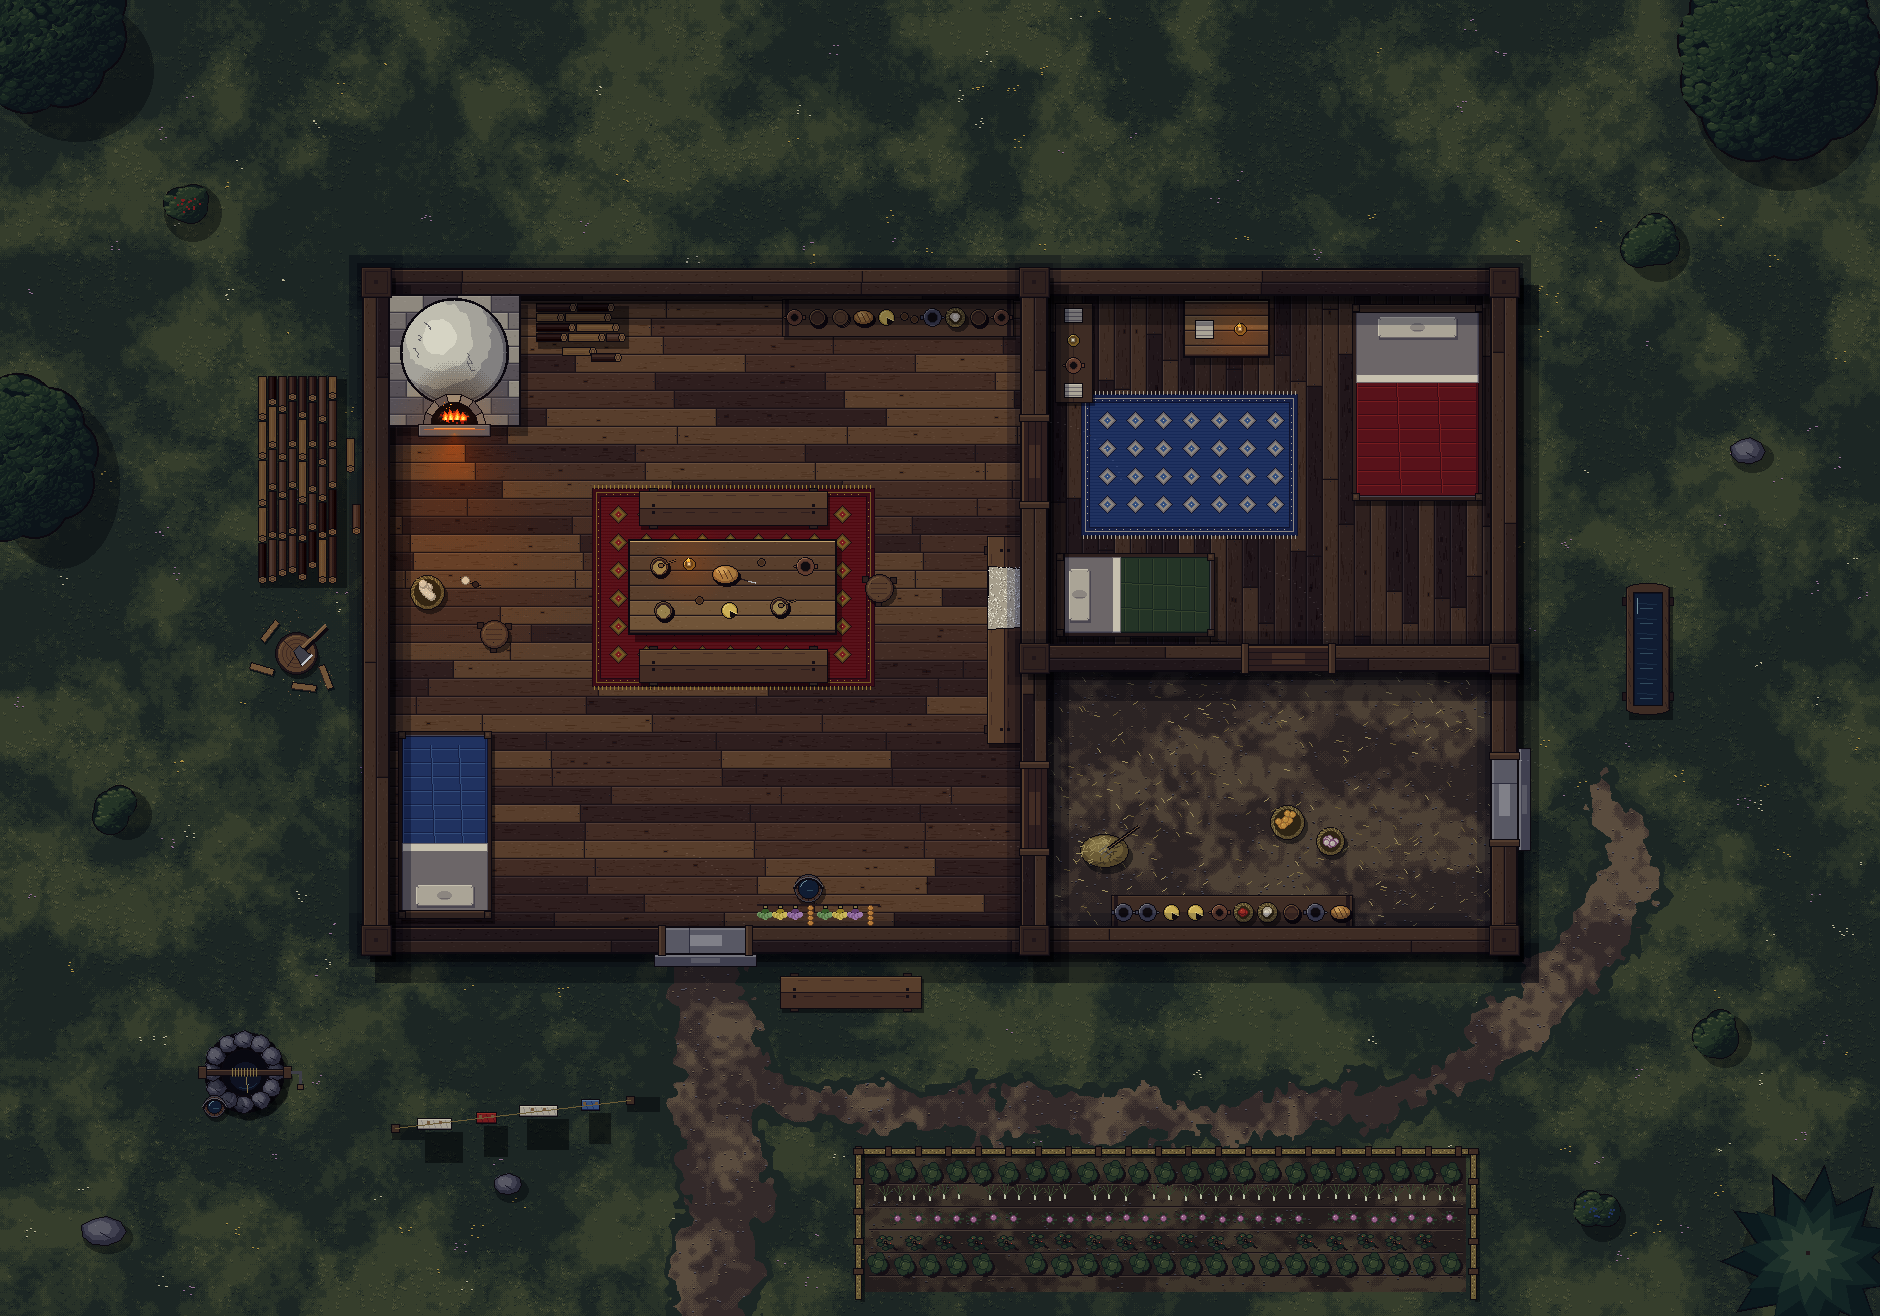
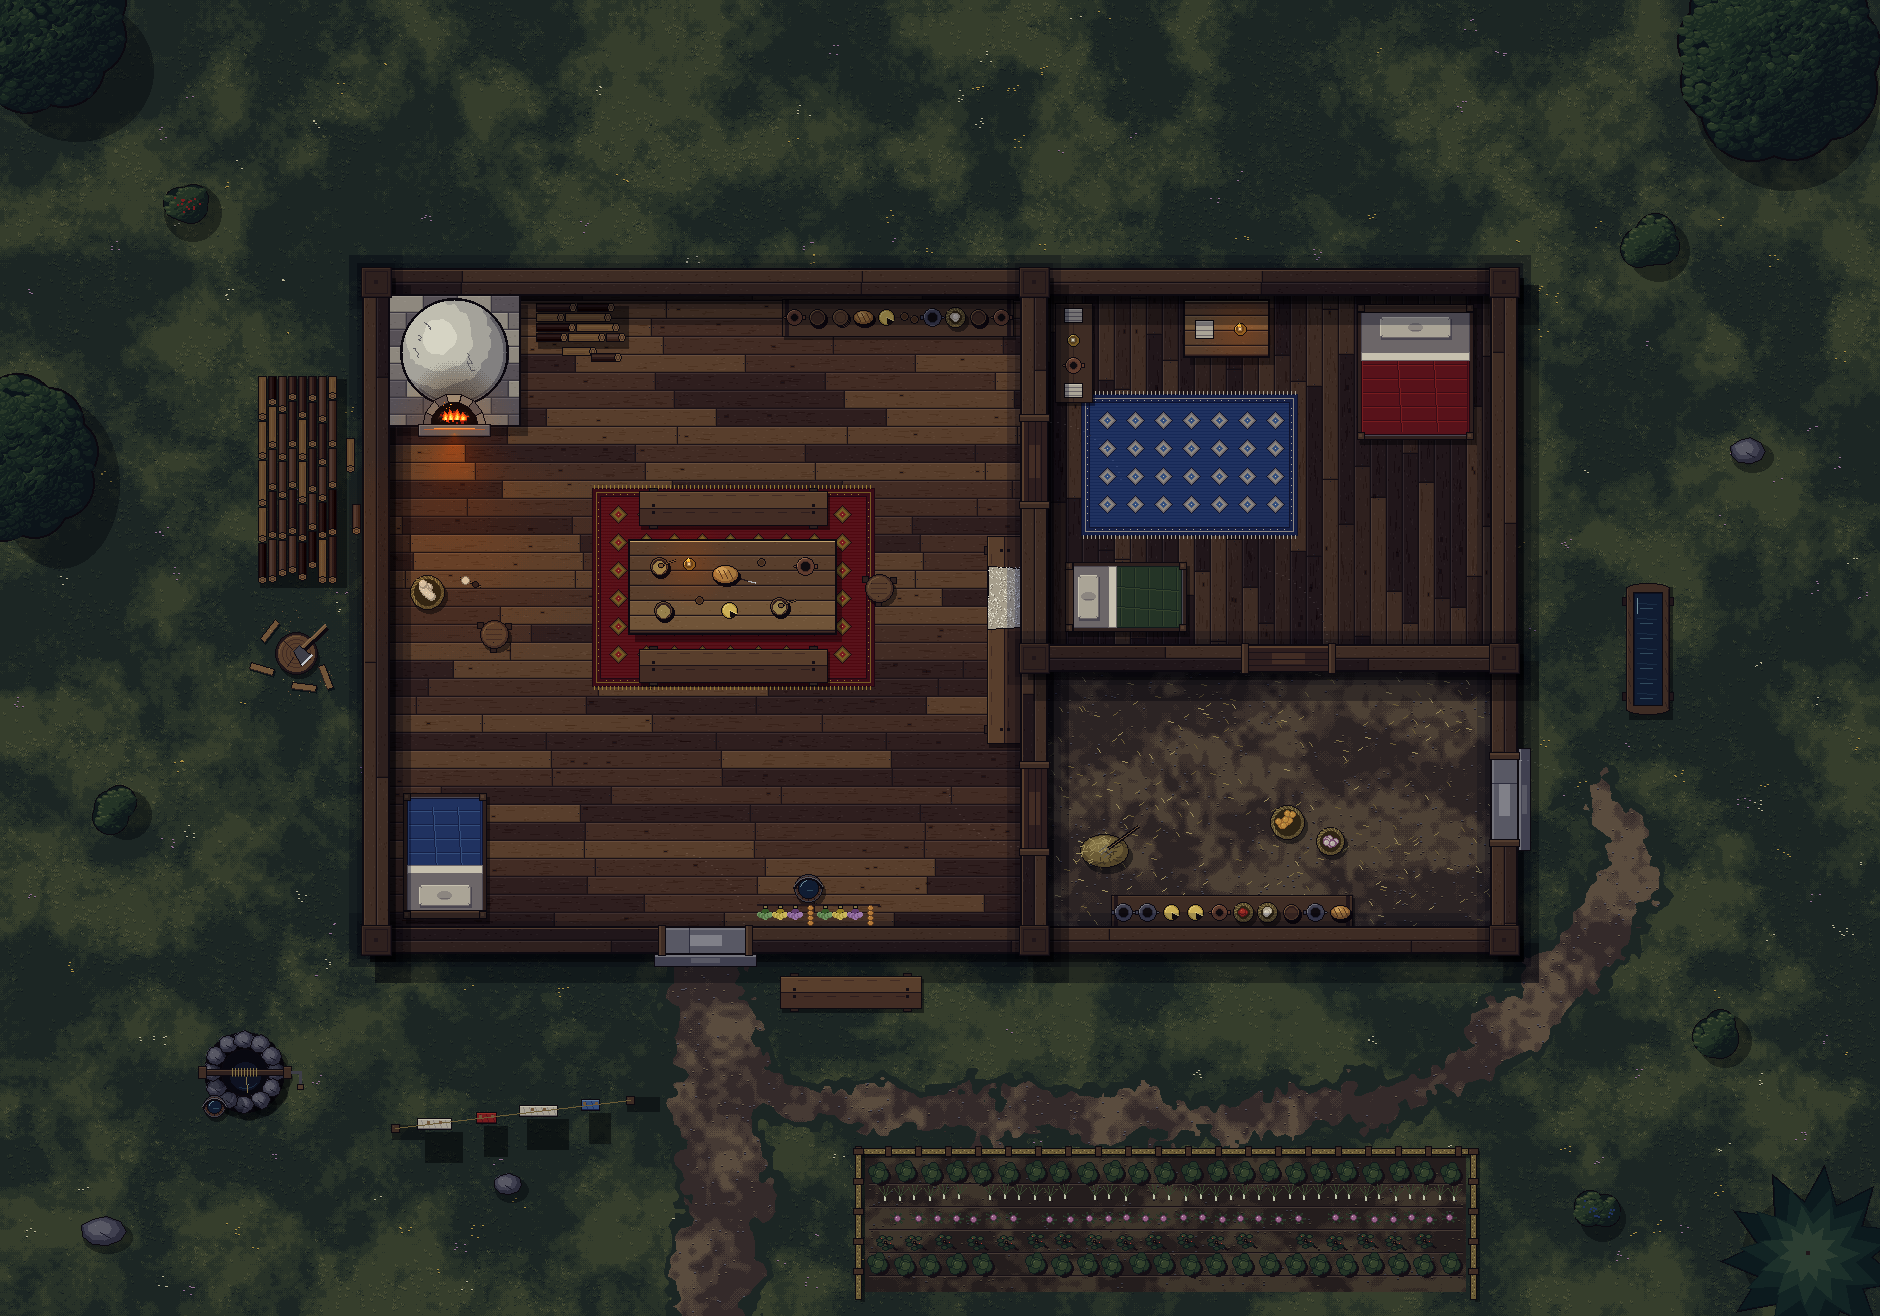
Pixel drawer: true sizes for beds, trees, strips, cart and haystack (B5738)
Claude-Session: https://claude.ai/code/session_01YQQrYhmh4ospiHsk6SmqxH

Changed region(s): [[0.7096, 0.2492, 0.8021, 0.405], [0.5553, 0.405, 0.6479, 0.4985], [0.216, 0.5608, 0.2777, 0.6854]]

diff --git a/tools/pixelmap/maps/road.py b/tools/pixelmap/maps/road.py
@@ -44,14 +44,14 @@ m.disc(cx_ + 14, cy_ + 16, 5, "red", 3); d.point((cx_ + 13, cy_ + 15), fill=R["p
 note("wayside cross", 12.3, 12.2)
 
 
-def cart(x, y, w=1.3, L=2.6):
+def cart(x, y, w=.95, L=1.75):                                                   # an 8 by 4 1/2 ft bed
     """A two-wheeled farm cart from above, shafts to the west and down on the ground: a plank bed with side
     boards, the wheels as narrow iron-shod rims beside it with their hubs, the shafts reaching out ahead."""
     X0, Y0, X1, Y1 = int(x * T), int(y * T), int((x + L) * T), int((y + w) * T)
     m.shade((X0 + 6, Y0 + 8, X1 + 8, Y1 + 10), f=.62)
     for yy in (Y0 + 10, Y1 - 14):                                                    # the shafts
-        m.box(X0 - 110, yy, X0 + 4, yy + 5, "wood", 2, bevel=False)
-    m.box(X0 - 116, Y0 + 8, X0 - 106, Y1 - 8, "wood", 2, bevel=False)              # the crossbar at the shafts' end
+        m.box(X0 - 150, yy, X0 + 4, yy + 5, "wood", 2, bevel=False)
+    m.box(X0 - 156, Y0 + 8, X0 - 146, Y1 - 8, "wood", 2, bevel=False)              # the crossbar at the shafts' end
     m.put(np.transpose(m.planks(X1 - X0, Y1 - Y0, "wood", bh=16), (1, 0, 2)), X0, Y0)
     d.rectangle([X0, Y0, X1, Y1], outline=OUT)
     for x0, y0, x1, y1 in ((X0, Y0, X1, Y0 + 8), (X0, Y1 - 8, X1, Y1), (X0, Y0, X0 + 8, Y1), (X1 - 8, Y0, X1, Y1)):
@@ -61,9 +61,9 @@ def cart(x, y, w=1.3, L=2.6):
         m.box(mx - 46, yy, mx + 46, yy + 12, "dwood", 2)
         d.line([mx - 44, yy + (1 if sg < 0 else 10), mx + 44, yy + (1 if sg < 0 else 10)], fill=R["iron"][3])
         m.disc(mx, yy + 6, 9, "iron", 2)
-    pr.sack(m, x + .55, y + .62, 22, name="Sack on the cart")
-    pr.barrel(m, x + 1.55, y + .62, 22, holds="grain", head="s", name="Cask on the cart")
-    pr.barrel(m, x + 2.15, y + .62, 20, holds="water", name="Small cask on the cart")
+    pr.sack(m, x + .45, y + .48, 20, name="Sack on the cart")
+    pr.barrel(m, x + 1.05, y + .48, 20, holds="grain", head="s", name="Cask on the cart")
+    pr.barrel(m, x + 1.45, y + .48, 17, holds="water", name="Small cask on the cart")
     note("cart", x + L / 2, y + w / 2)
 
 
@@ -104,10 +104,10 @@ built = [(3.0, 9.4, 4.6, 2.2), (11.2, 11.2, 2.2, 2.2), (27.2, 1.0, 7, 4.4), (33.
 
 def clear(x, y, r):
     """No tree on the road, the ford, a field, the cart or the cross; the wood is thick north of the road and east of the brook."""
-    if 14.2 < y and x < 21.2: return True
+    if 12.4 < y and x < 22.4: return True                                          # no crown over the strips
     if y > 10.4 and x < 22 and m.rng.random() < .75: return True                   # open ground south of the road, a tree here and there
     px_, py_ = min(max(int(x * T), 0), m.W - 1), min(max(int(y * T), 0), m.H - 1)
-    if dt[py_, px_] < 60 or db[py_, px_] < 44 + 60: return True
+    if dt[py_, px_] < r * T * .6 or db[py_, px_] < 44 + r * T * .6: return True
     return any(bx - r * .6 < x < bx + bw + r * .6 and by - r * .6 < y < by + bh + r * .6 for bx, by, bw, bh in built)
 
 

diff --git a/tools/pixelmap/props.py b/tools/pixelmap/props.py
@@ -510,8 +510,26 @@ def _open_crate(m, X, Y, s, goods, lid="w"):
 
 
 def hay(m, x, y, r=26):
-    """A heap of loose hay with a pitchfork stuck in it."""
+    """A heap of loose hay with a pitchfork stuck in it. From r 60 up, a field stack: a tall round rick built about a
+    pole, its straw combed down the sides, domed and lit from the north-west, with loose hay round its foot."""
     d = m.d; cx, cy = P(x), P(y); S = R["straw"]; rng = m.rng
+    if r >= 60:
+        m.shade((cx - r + r * .3, cy - r + r * .38, cx + r + r * .3, cy + r + r * .38), kind="ellipse", f=.6)
+        for _ in range(int(r * 1.6)):                                             # loose hay trodden round the foot
+            a = rng.uniform(0, 6.28); t = r * rng.uniform(1.0, 1.22); x_, y_ = cx + math.cos(a) * t, cy + math.sin(a) * t; b = a + rng.uniform(-.6, .6)
+            d.line([x_, y_, x_ + math.cos(b) * 6, y_ + math.sin(b) * 6], fill=S[rng.integers(1, 4)])
+        m.dome(cx, cy, r, "straw")
+        for _ in range(int(r * r * .12)):                                         # straw combed down from the crown
+            a = rng.uniform(0, 6.28); t = rng.uniform(.15, .97) * r; x_, y_ = cx + math.cos(a) * t, cy + math.sin(a) * t
+            lit = (x_ - cx) + (y_ - cy) < -r * .2; L_ = rng.uniform(5, 10)
+            d.line([x_, y_, x_ + math.cos(a) * L_, y_ + math.sin(a) * L_], fill=S[4] if lit else S[1] if (x_ - cx) + (y_ - cy) > r * .3 else S[2])
+        for k in range(3):                                                        # ropes weighted over the top
+            a = k * 2.09 + .3; d.line([cx, cy, cx + math.cos(a) * r * .95, cy + math.sin(a) * r * .95], fill=R["dwood"][2], width=2)
+        m.disc(cx, cy, max(6, r // 12), "dwood", 2)                               # the stack pole's top
+        hx, hy = cx + r * 1.05, cy + r * .45                                      # a fork leant at the foot
+        d.line([hx, hy, hx + 36, hy - 26], fill=OUT, width=3); d.line([hx, hy, hx + 36, hy - 26], fill=R["wood"][4])
+        for k in (-4, 0, 4): d.line([hx + k * .6, hy + k * .8, hx - 7 + k * .6, hy + 6 + k * .8], fill=R["iron"][4])
+        return
     m.shade((cx - r + 3, cy - r * .7 + 5, cx + r + 5, cy + r * .7 + 7), kind="ellipse", f=.58)
     d.ellipse([cx - r, cy - r * .7, cx + r, cy + r * .7], fill=S[1], outline=OUT); d.ellipse([cx - r + 3, cy - r * .7 + 2, cx + r - 6, cy + r * .7 - 6], fill=S[2]); d.ellipse([cx - r * .6, cy - r * .5, cx + r * .2, cy], fill=S[3])
     for _ in range(int(r * 2.4)):

diff --git a/tools/pixelmap/maps/farmhouse.py b/tools/pixelmap/maps/farmhouse.py
@@ -46,7 +46,7 @@ pr.loaf(m, tx + 96, ty + 34, 13, 9); pr.knife(m, tx + 118, ty + 40, .3); pr.jug(
 pr.candle(m, tx + 60, ty + 24)
 pr.bench(m, 6.8, 5.22, 2.0, .36); pr.bench(m, 6.8, 6.9, 2.0, .36); note("bench", 7.8, 5.4); note("bench", 7.8, 7.08)
 pr.stool(m, 9.35, 6.25); note("stool", 9.35, 6.25)
-pr.bed(m, 4.2, 7.75, 1.05, 2.05, head="s", cloth="blue"); note("bed", 4.72, 8.8)
+pr.bed(m, 4.25, 8.4, .95, 1.4, head="s", cloth="blue"); note("bed", 4.72, 8.8)
 pr.painted_chest(m, 5.35, 9.2, 1.0, .62, "red", name="Red painted chest")
 pr.shelf(m, 8.3, 3.16, 2.5, .44, ["jug", "bowl", "plates", "loaf", "cheese", "cups", "pot", "eggs", "bowl", "jug"]); note("shelf of crockery and food", 9.55, 3.4)
 pr.logpile(m, 5.7, 3.22, .95, .44); note("firewood", 6.2, 3.45)
@@ -58,9 +58,9 @@ pr.stool(m, 5.25, 6.75); note("stool", 5.25, 6.75)
 
 # ---- chamber ----
 m.rug(11.5, 4.2, 2.3, 1.5, "blue", "linen"); note("rug", 12.65, 4.95)
-pr.bed(m, 14.35, 3.2, 1.45, 2.15, head="n", cloth="red"); note("great bed", 15.07, 4.3)
+pr.bed(m, 14.4, 3.2, 1.3, 1.5, head="n", cloth="red"); note("great bed", 15.07, 4.3)
 pr.painted_chest(m, 14.55, 5.6, 1.05, .62, "blue", name="Blue painted chest")
-pr.bed(m, 11.2, 5.85, 1.75, .95, head="w", cloth="green"); note("cot", 12.07, 6.32)
+pr.bed(m, 11.3, 5.95, 1.35, .8, head="w", cloth="green"); note("cot", 12.07, 6.32)
 m.table(12.6, 3.2, .9, .6, things=False); pr.candle(m, px(13.2), px(3.5)); note("small table with a candle", 13.05, 3.5)
 cx_, cy_ = px(12.85), px(3.5); L_ = R["linen"]; d.rectangle([cx_ - 12, cy_ - 9, cx_ + 6, cy_ + 9], fill=L_[3], outline=OUT)        # a folded shift
 for k in (-4, 1, 6): d.line([cx_ - 11, cy_ + k, cx_ + 5, cy_ + k], fill=L_[1])

diff --git a/tools/pixelmap/land.py b/tools/pixelmap/land.py
@@ -43,7 +43,7 @@ def strips(m, x0, y0, x1, y1, crops=("rye", "oats", "fallow", "flax")):
     runs between strips."""
     X0, Y0, X1, Y1 = int(x0 * T), int(y0 * T), int(x1 * T), int(y1 * T); rng = m.rng; d = m.d
     look = {"rye": ("straw", 1, 4, R["straw"][4]), "oats": ("green", 2, 5, (176, 180, 120)), "flax": ("green", 1, 4, R["blue"][4]), "fallow": ("dirt", 1, 4, R["green"][2])}
-    h = 92; k = 0
+    h = 170; k = 0                                                              # a strip about 8 ft wide on the map, so it reads as a field, not a bed
     for y in range(Y0, Y1 - 30, h):
         crop = crops[k % len(crops)]; k += 1; yb = min(Y1, y + h - 10)
         name, lo, hi, dot = look[crop]
@@ -81,7 +81,7 @@ def trees(m, W, H, keep_clear, n=500, fir=.45, gap=.62):
     """Trees and firs scattered over the map, none where keep_clear(x, y, r) says no; drawn north to south."""
     rng = m.rng; got = []
     for _ in range(n):
-        x, y = rng.uniform(-.5, W + .5), rng.uniform(-.5, H + .5); r = rng.uniform(.95, 1.6)
+        x, y = rng.uniform(-.5, W + .5), rng.uniform(-.5, H + .5); r = rng.uniform(1.8, 2.9)   # crowns 14 to 23 ft across
         if keep_clear(x, y, r): continue
         if any(math.hypot(x - a, y - b) < (r + c) * gap for a, b, c, _ in got): continue
         got.append((x, y, r, rng.random() < fir))

diff --git a/tools/pixelmap/maps/village.py b/tools/pixelmap/maps/village.py
@@ -39,7 +39,7 @@ B.chapel(rec, 12.4, 5.6, 8, 5, name="The chapel"); built.append((12.2, 5.4, 8.4,
 pr.well(m, 18.4, 11.6); note("well", 18.4, 11.6); built.append((17.6, 10.8, 1.8, 1.8))
 pr.trough(m, 19.6, 11.1, .46, 1.3); note("water trough", 19.83, 11.75)
 land.bridge(m, 29.4, 12.6, 32.0, 14.2); note("bridge", 30.7, 13.4)
-pr.hay(m, 36.6, 26.4, 30); note("haystack", 36.6, 26.4); built.append((35.8, 25.6, 1.8, 1.8))
+pr.hay(m, 36.4, 25.8, 105); note("haystack", 36.4, 25.8); built.append((35.0, 24.6, 2.8, 2.6))   # a stack about 11 ft across
 pr.washline(m, 9.6, 23.4, 12.2, 23.1, [("linen", 34), ("red", 20), ("linen", 30)]); note("washing line", 10.9, 23.3)
 
 
@@ -47,7 +47,7 @@ def clear(x, y, r):
     """No tree on the road, in the brook, on a field or a garden, or crowding a house."""
     if y < 3.9 and x < 28.2 or y > 24.1 and x < 29.2: return True
     px_, py_ = min(max(int(x * T), 0), m.W - 1), min(max(int(y * T), 0), m.H - 1)
-    if dt[py_, px_] < 70 or db[py_, px_] < 46 + 70: return True
+    if dt[py_, px_] < r * T * .6 or db[py_, px_] < 46 + r * T * .6: return True   # crowns may reach the verge, not cover the road
     return any(bx - r * .6 < x < bx + bw + r * .6 and by - r * .6 < y < by + bh + r * .6 for bx, by, bw, bh in built)
 
 

diff --git a/tools/pixelmap/buildings.py b/tools/pixelmap/buildings.py
@@ -38,8 +38,8 @@ def cottage(rec, x, y, w=7, h=5, door="s", cloth="red", paint="red", name="Cotta
     ox = fx(.14, 1.4); oy = fy(.14, 1.4)
     m.oven(ox, oy, 1.4, 1.4, side="n" if door == "s" else "s")
     rec.light(f"{name}-oven", f"The oven ({name})", (ox, oy, 1.4, 1.4), dim=4, bright=1.5); rec.note("bread oven", ox + .7, oy + .7)
-    bx = fx(w - 1.25, 1.1)
-    pr.bed(m, bx, fy(.15, 2.0), 1.1, 2.0, head="n" if door == "s" else "s", cloth=cloth); rec.note("bed", bx + .55, fy(1.15))
+    bx = fx(w - 1.1, .95)                                                       # a bed for two: 4 1/2 by 7 ft
+    pr.bed(m, bx, fy(.15, 1.4), .95, 1.4, head="n" if door == "s" else "s", cloth=cloth); rec.note("bed", bx + .48, fy(.85))
     sx = fx(1.8, 1.6); pr.shelf(m, sx, fy(.16, .44), 1.6, .44, ["jug", "bowl", "loaf", "cheese", "pot", "bowl"]); rec.note("shelf of crockery", sx + .8, fy(.38))
     pr.painted_chest(m, fx(w - 2.4, 1.0), fy(.2, .62), 1.0, .62, paint, name=f"Painted chest ({name})")
     tx = fx(w - 3.1, 1.8); ty = fy(h - 2.2, .9)                                 # the table by the front window, benches each side

diff --git a/tools/pixelmap/RULES.md b/tools/pixelmap/RULES.md
@@ -21,6 +21,27 @@ For each object, ask: would a player who has never seen our code know what this 
   it, a crate's lid on or off, a sack tied on its side or stood up and rolled open. The same goes for lit or out,
   full or empty, whole or broken, as those come.
 
+## True sizes
+
+A square is 5 ft. Check every new object against this table (Ben, 15 November 2026: "the proportions of world objects
+must make sense"), and add a row for each new kind of thing.
+
+| Thing | Real size | On the map |
+|---|---|---|
+| Bed for two (box bed) | 4 1/2 by 7 ft | 0.95 by 1.4 squares |
+| Narrow bed or cot | 4 by 6 1/2 ft | 0.8 by 1.35 |
+| Table for a household | 9 by 4 1/2 ft | 1.8 by 0.9 |
+| Bench | 8 by 1 3/4 ft | 1.6 by 0.34 |
+| Chest | 5 by 3 ft | 1.0 by 0.62 |
+| Bread oven | about 7 ft | 1.4 |
+| Cask | 2 to 2 1/2 ft across | 40 to 48 px |
+| Well head | about 4 ft | 80 px |
+| Farm cart bed, wheels | 8 by 4 1/2 ft, wheels 5 ft | 1.75 by 0.95, wheels 92 px |
+| Haystack (rick) | 10 to 12 ft across | radius 100 to 110 px |
+| Tree crown, field tree | 14 to 23 ft across | 2.8 to 4.6 squares |
+| Field strip | at least 8 ft wide on the map | 170 px rows |
+| Wayside cross base | about 3 ft | 60 px |
+
 ## Point of view and colour
 
 - Everything is seen from straight above. Never a side or three-quarter view (no end-on log circles, no front

diff --git a/changes/decisions/B5737.md b/changes/decisions/B5737.md
@@ -7,3 +7,8 @@ modules: tools
 Tools. tools/pixelmap/buildings.py draws a one-room log cottage (oven in a back corner, bed, painted chest, table and benches by the front window, a door and three shuttered windows, all recorded as walls, openings, a light and a home) and a small timber chapel; land.py lays grass, rutted roads, brooks, ploughed strips by crop, a plank bridge and trees that keep clear of what was built. maps/village.py (a Moravian village of about 1200, 40 by 28 squares) and maps/road.py (a country road with a ford, a wayside cross and a cart, 36 by 20) are the samples sent to Ben before the larger map work.
 
 Reverse: remove the files; nothing else uses them yet.
+
+## B5738. Every object at its true size (2026-11-15)
+Tools. After Ben's review of the samples, every object was measured against the 5 ft square: beds were 10 ft long and are now 7, tree crowns grow to 14 to 23 ft, field strips are wide enough to read as fields, the cart is a farm cart's size, and a field haystack is drawn as a domed rick about 11 ft across. RULES.md keeps the size table.
+
+Reverse: none needed.
